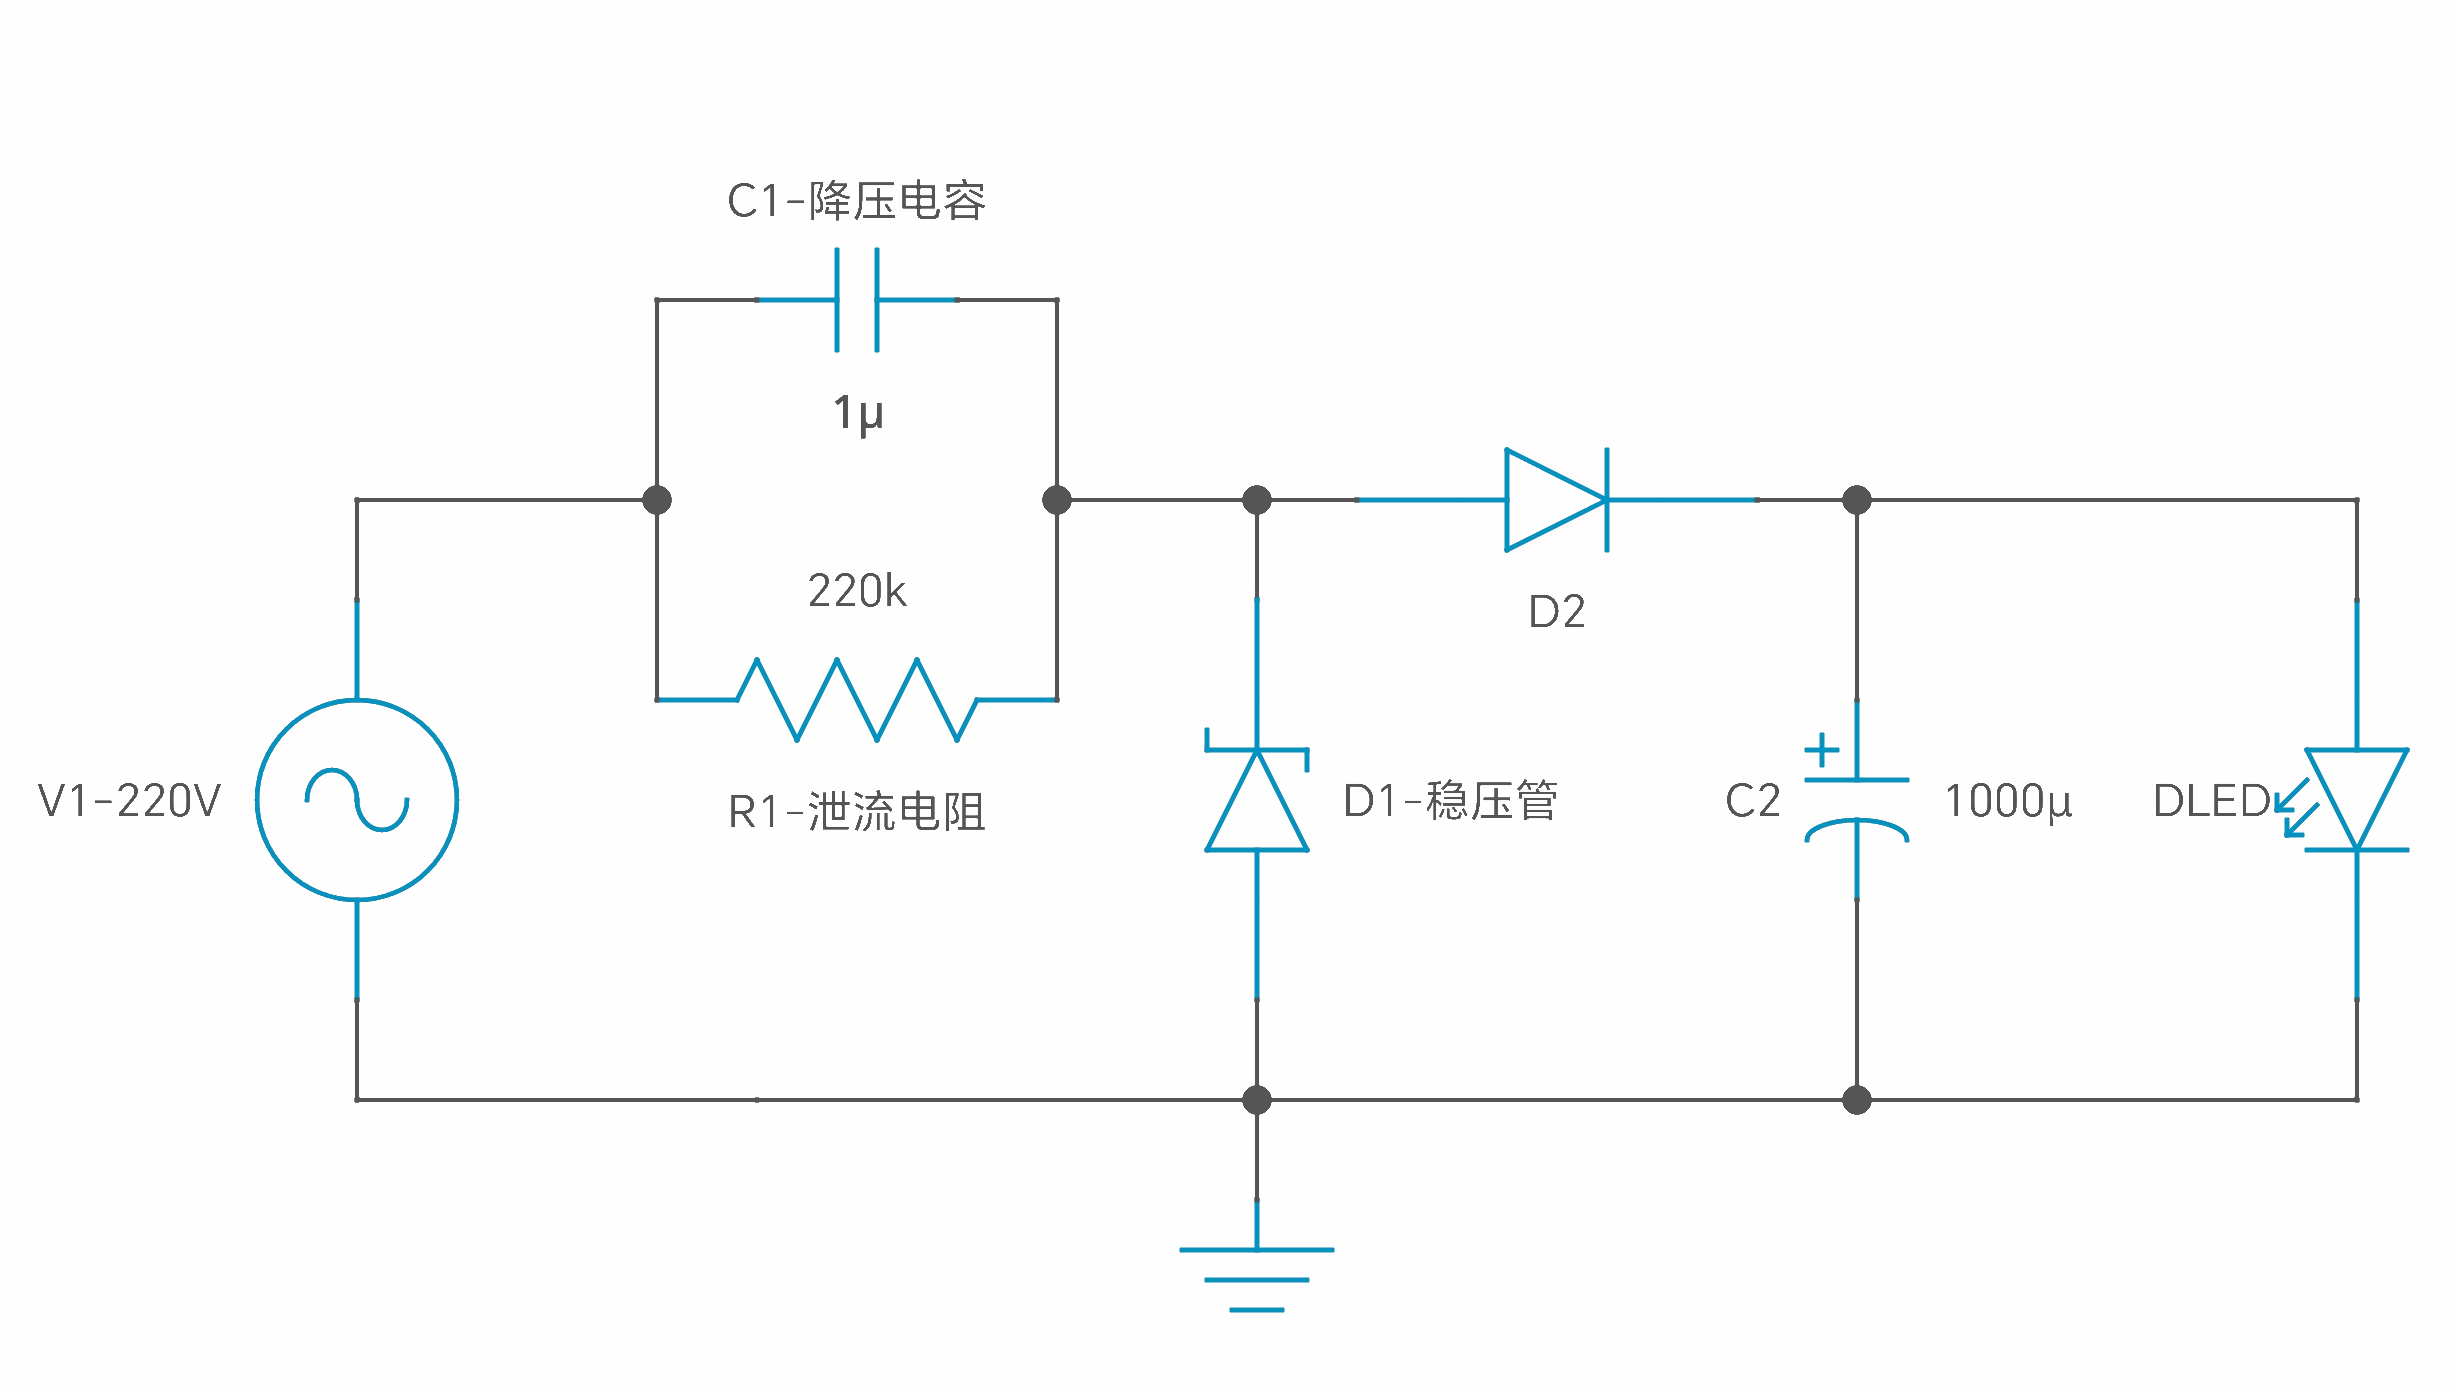
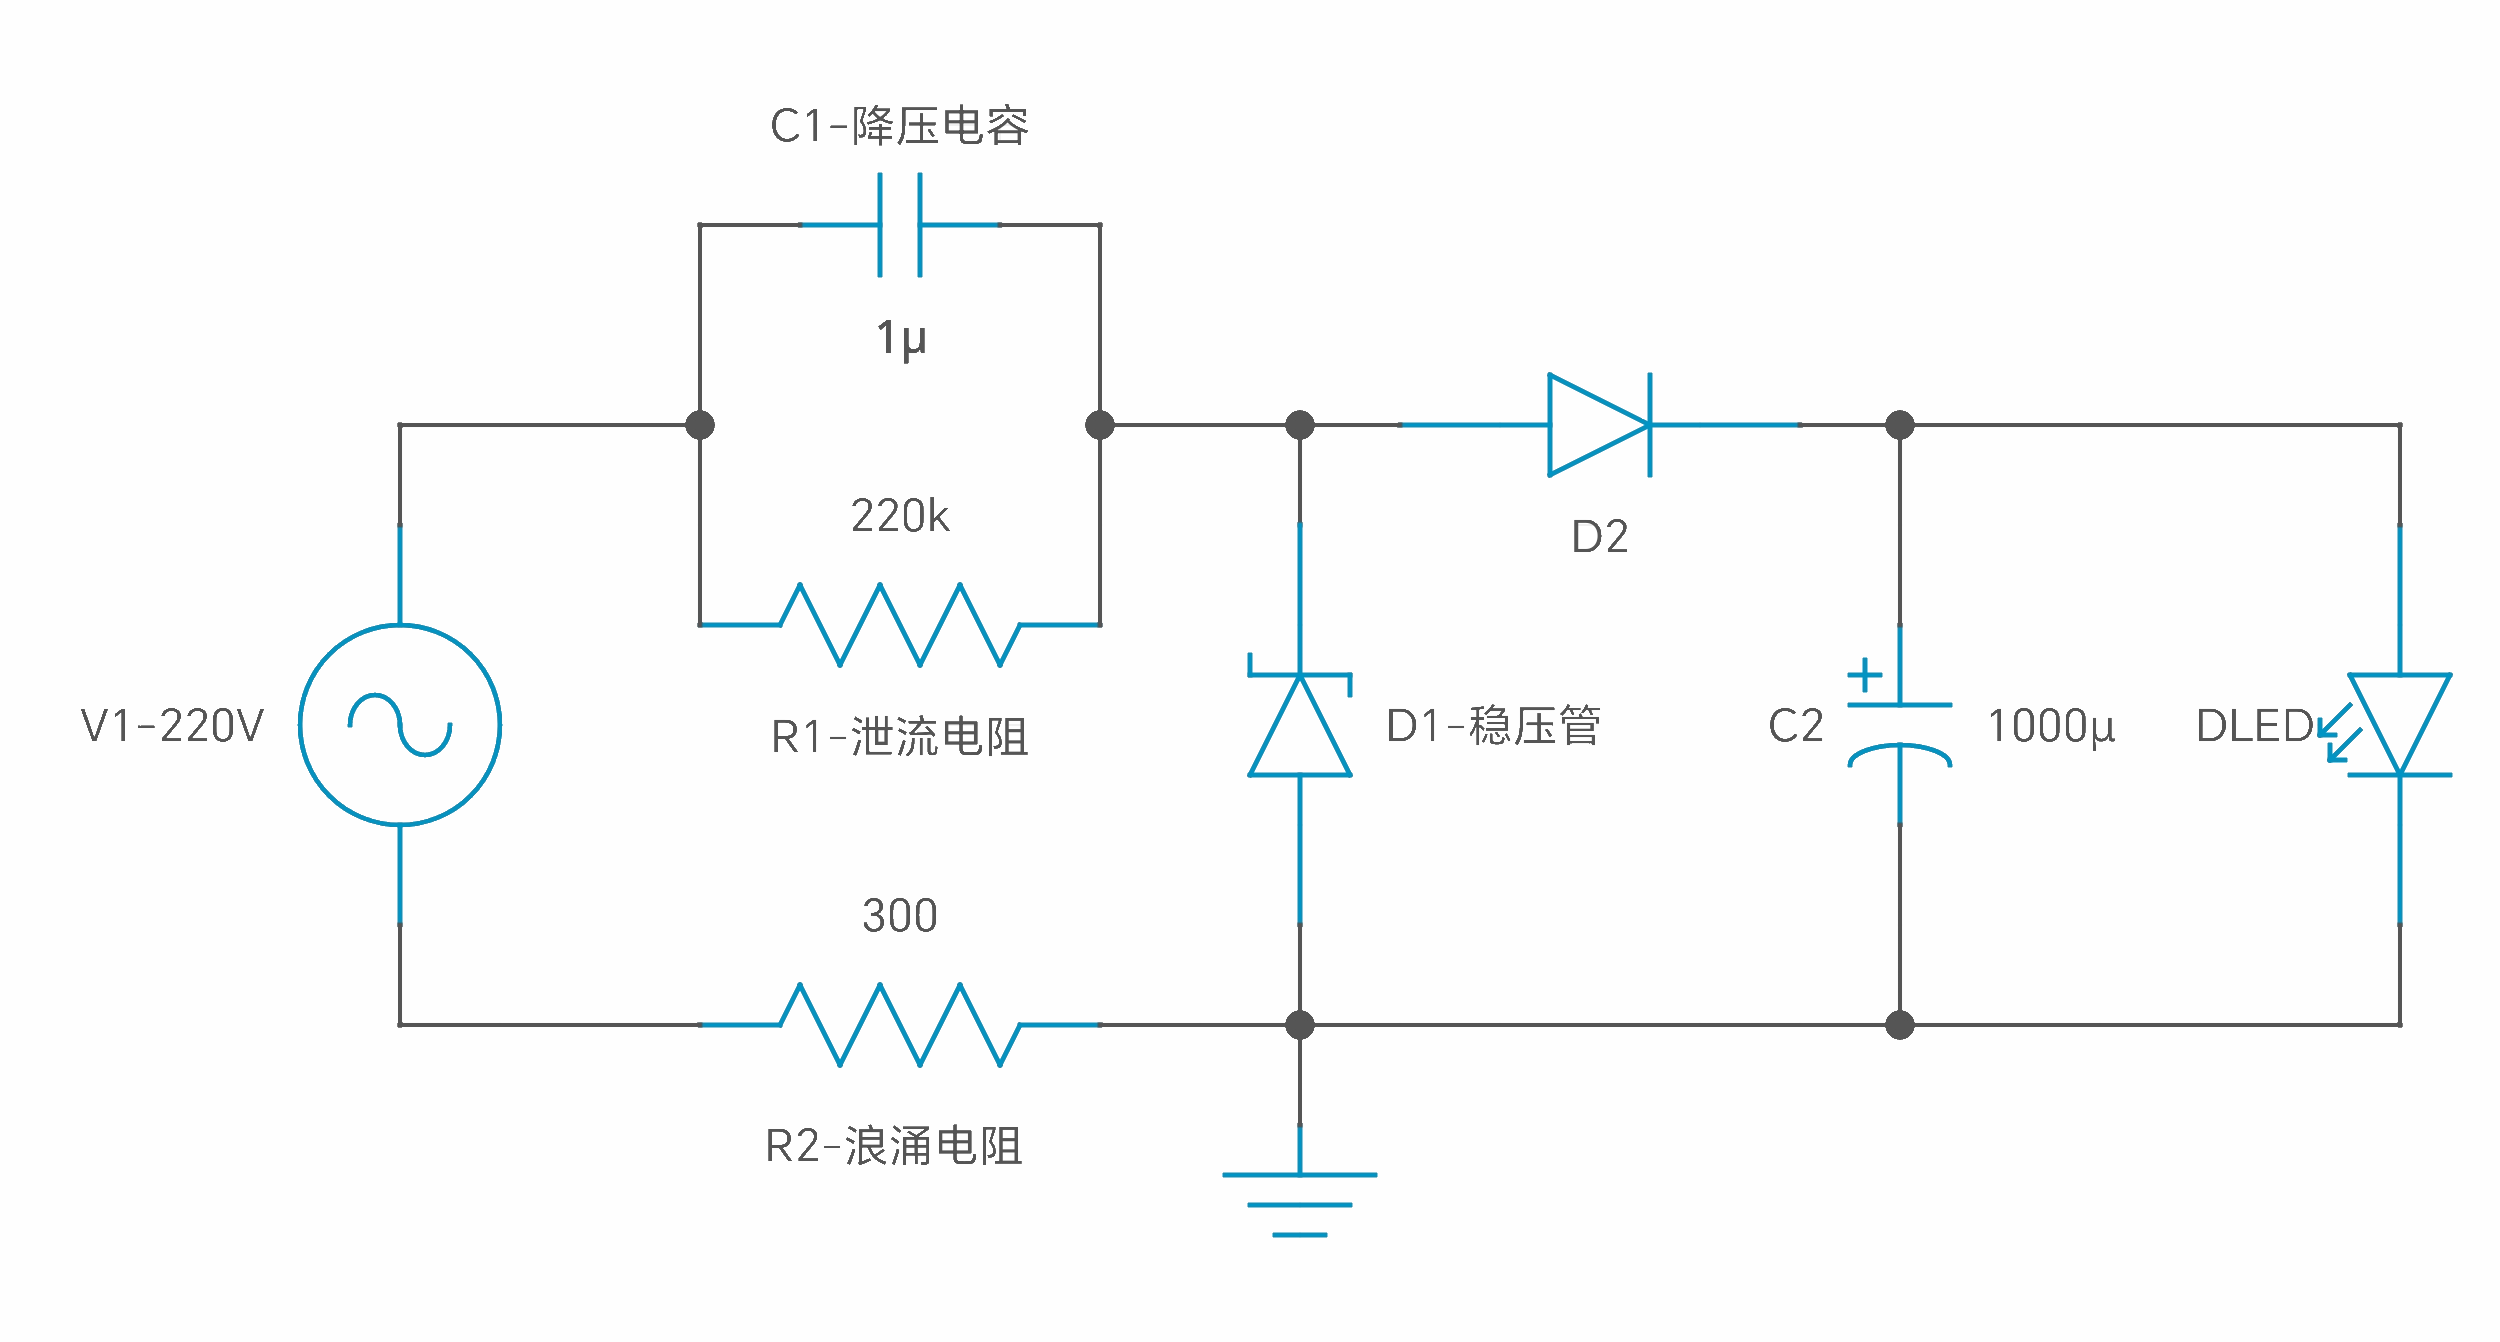
first commit

diff --git a/_posts/2024-04-04-tx_less.md b/_posts/2024-04-04-tx_less.md
@@ -93,6 +93,12 @@ date: 2024-04-04 00:34:36
 浪涌电流是电源或电气设备在开启时吸收的瞬时高输入电流。浪涌电流限制器是一种用于限制浪涌电流的元件，可避免元件逐渐损坏，并避免保险丝烧断或断路器跳闸。负温度系数 (NTC) <font color="#FF0010">热敏电阻</font>和<font color="#FF0010">固定电阻</font>通常用于限制浪涌电流。
 
 
+在知道电容值的情况下估算浪涌电流值，是可能的。但随着电路的复杂性增加，估算浪涌电流值变得越来越困难，特别是如果您使用某种电流控制机制，其行为不是线性的。如电路如下简单的 RC 电路，其中时域中的电流由以下公式给出：
+
+$$ I(t) = \frac {V_{in} e^{\frac{-t}{RC}}}{R_2}$$
+
+#### 电阻值及功率瓦数估计
+
 假设最大限流电流为 <font color="#FF0010">1 A</font>，而电压为 <font color="#FF0010">220 V</font> 则电阻值为：
 
 $$ 电阻值 = \frac {峰值电压} {电流} = \frac {220 * 1.414} {1} = 283 \Omega \simeq 200 \Omega $$
